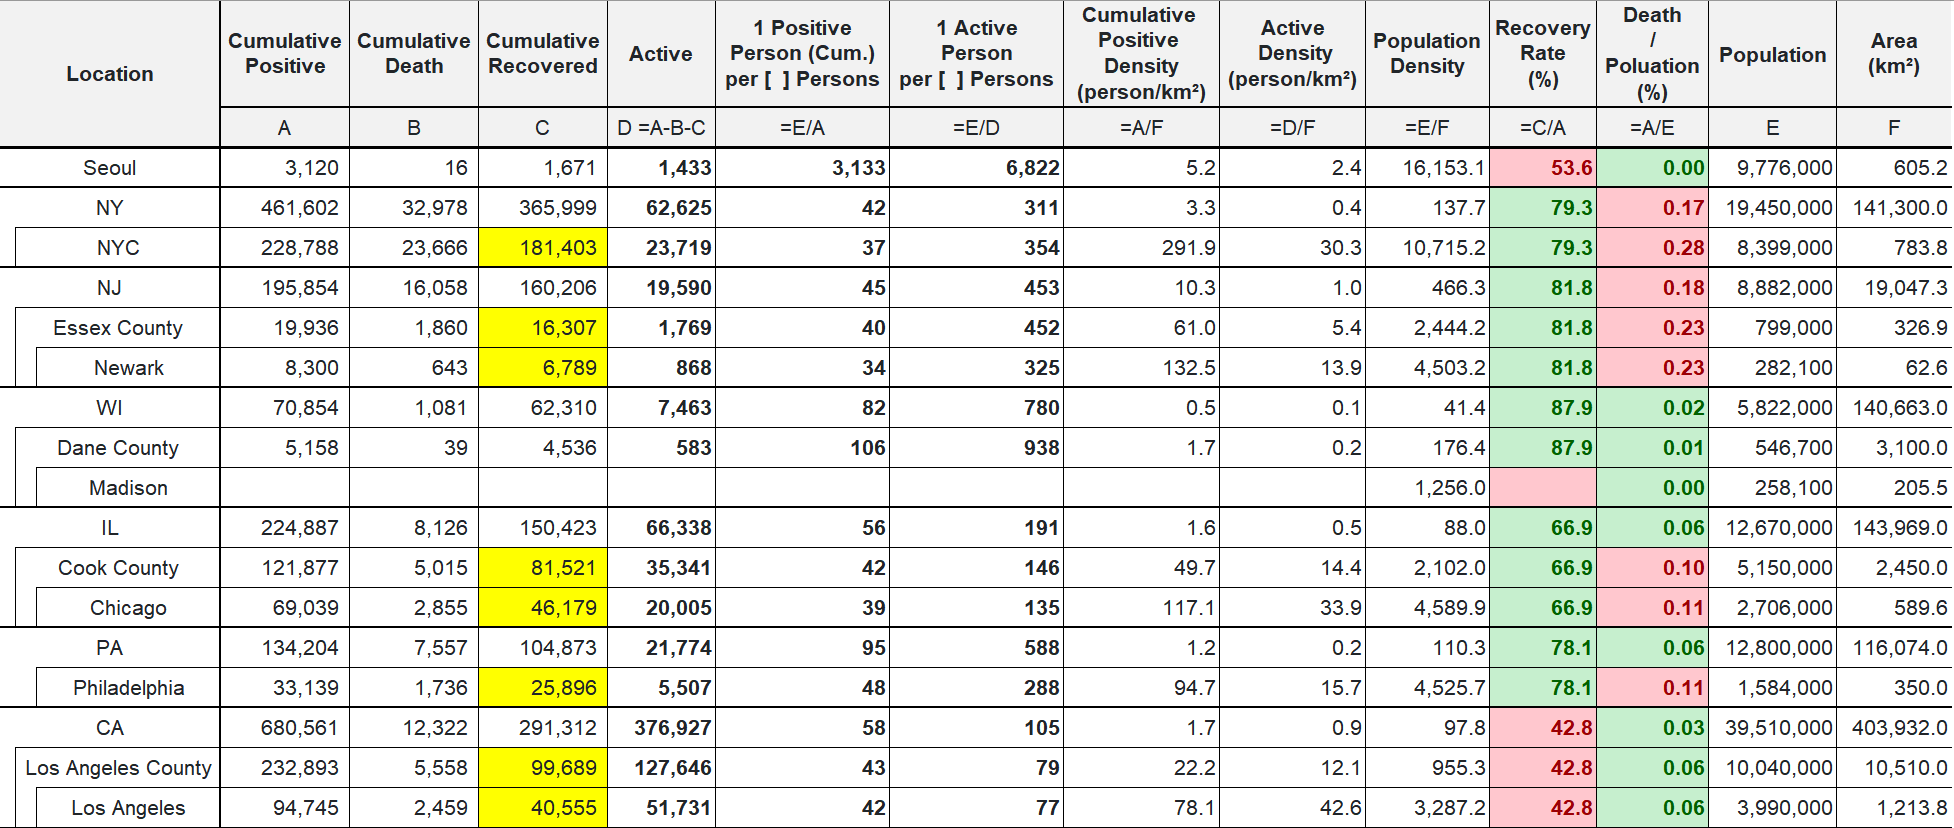
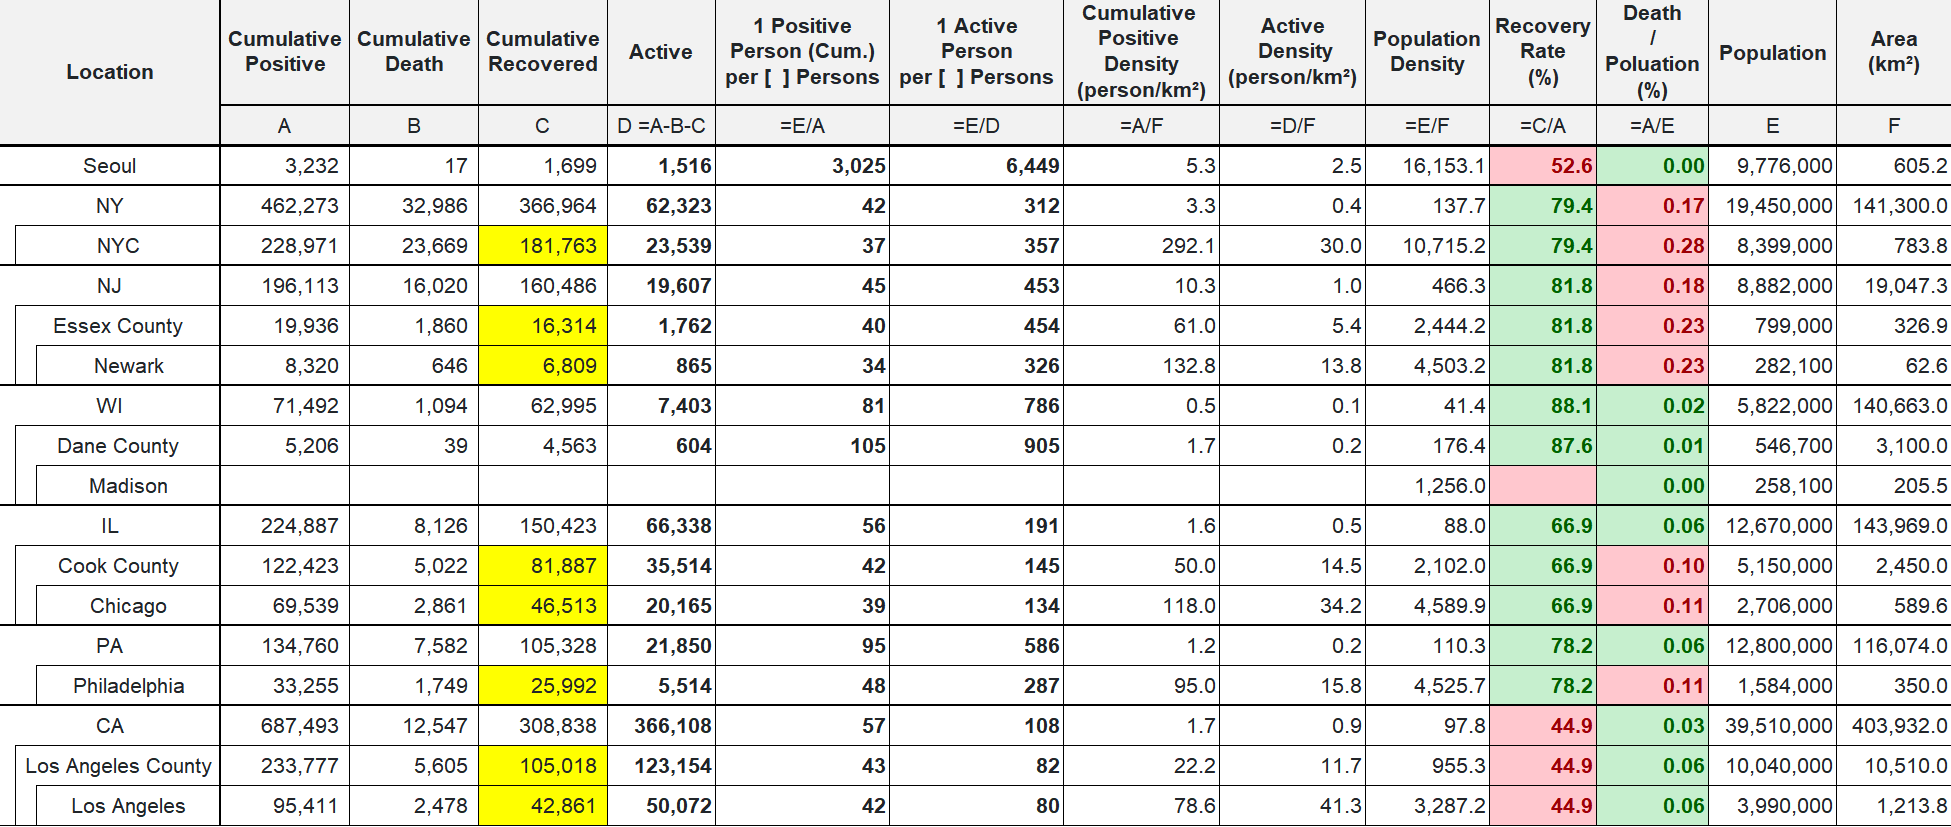
update 8/26 status

Changed region(s): [[0.0, 0.0, 1.0, 1.0], [0.0308, 0.0605, 0.0923, 0.1209]]

diff --git a/index.html b/index.html
@@ -19,7 +19,7 @@
 
 <body class="container-fluid">
 	<h1> CoronaV for Friends</h1>
-	<h2> Data updated at Aug 25 2020 EST 20:25</h2>
+	<h2> Data updated at Aug 26 2020 EST 20:45</h2>
 	<hr>
 	<main>
 		<div class="row">
